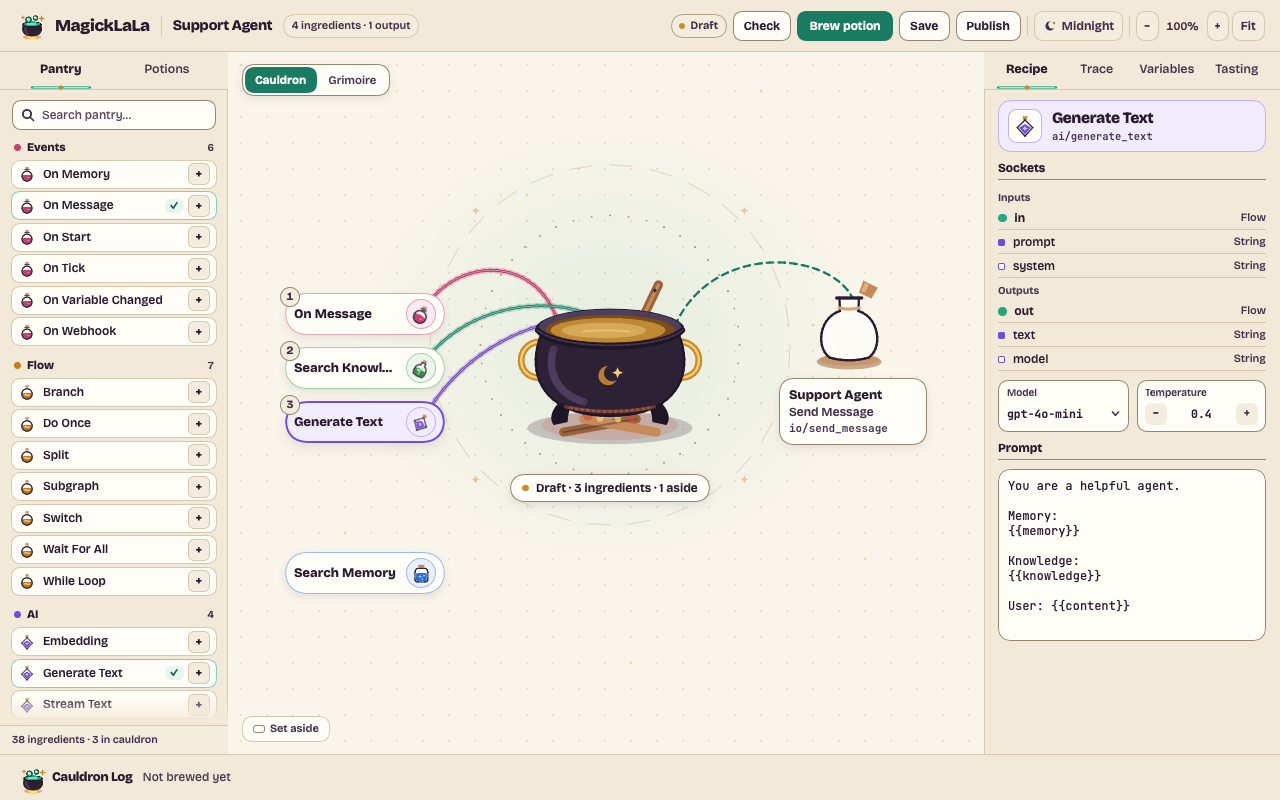
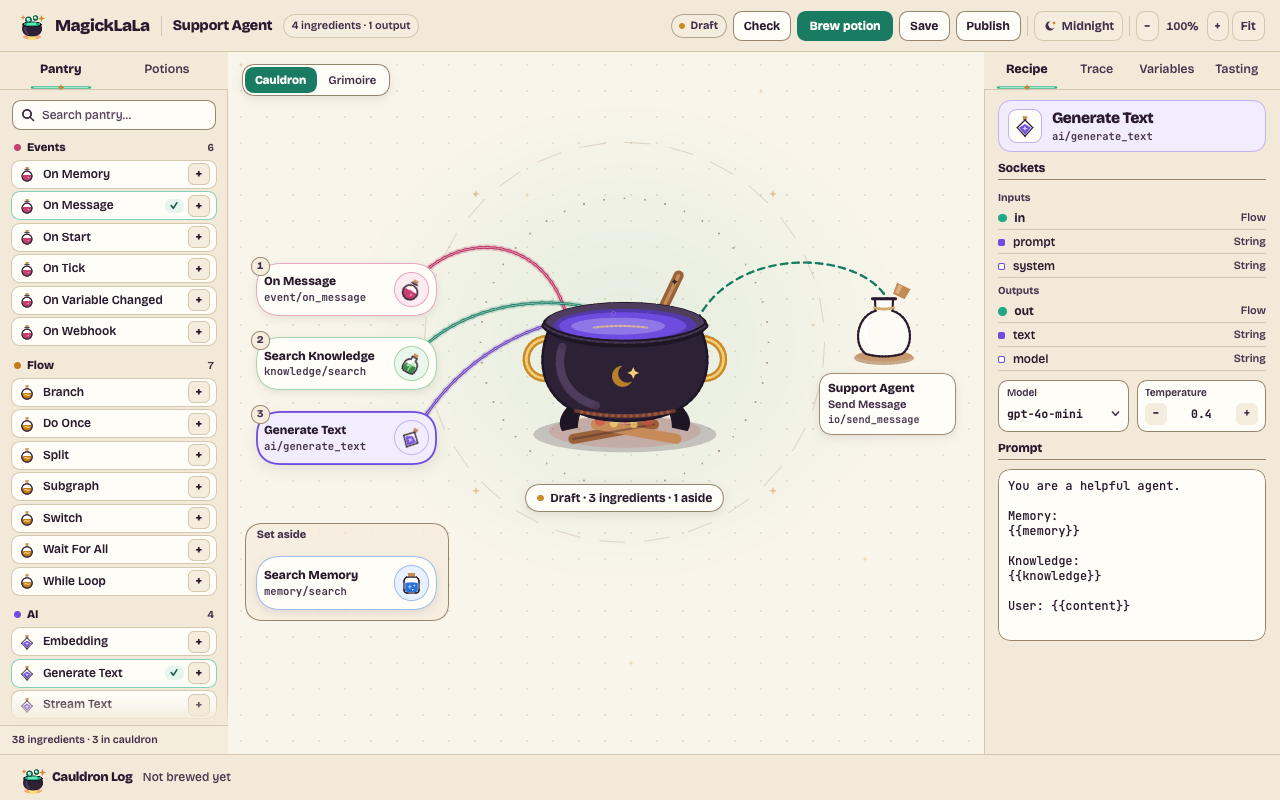
fix(canvas): set-aside shelf carries its own label so the legend no longer repeats it; screenshots regenerated

diff --git a/crates/magicklala-canvas/src/cauldron.rs b/crates/magicklala-canvas/src/cauldron.rs
@@ -330,11 +330,10 @@ fn plaque(state: &CanvasState, mood: CauldronMood, plan: &BrewPlan, p: &HearthPa
     )
 }
 
-fn legend(state: &CanvasState, mood: CauldronMood, plan: &BrewPlan, size: (f32, f32), p: &HearthPalette) -> Option<El> {
+fn legend(state: &CanvasState, mood: CauldronMood, size: (f32, f32), p: &HearthPalette) -> Option<El> {
     let untaken = state.has_run() && state.nodes.iter().any(|card| card.status == ExecutionStatus::Idle);
     let hexed = mood == CauldronMood::Hexed;
-    let aside = plan.with_role(BrewRole::Aside).next().is_some();
-    if !untaken && !hexed && !aside {
+    if !untaken && !hexed {
         return None;
     }
     let dash = |color: Color| row().gap(3.0).items_center().child(el().w(6.0).h(2.0).fill(color)).child(el().w(6.0).h(2.0).fill(color));
@@ -355,15 +354,6 @@ fn legend(state: &CanvasState, mood: CauldronMood, plan: &BrewPlan, size: (f32, 
             .child(row().gap(5.0).items_center().child(dash(p.mute)).child(text("Blocked").font(TextStyle::new(11.0, 600.0)).color(p.ink_2)));
     } else if untaken {
         keyed = keyed.child(row().gap(5.0).items_center().child(dash(p.mute)).child(text("Untaken").font(TextStyle::new(11.0, 600.0)).color(p.ink_2)));
-    }
-    if aside {
-        keyed = keyed.child(
-            row()
-                .gap(5.0)
-                .items_center()
-                .child(el().size(12.0, 8.0).radius(3.0).border(1.2, p.rule_2))
-                .child(text("Set aside").font(TextStyle::new(11.0, 600.0)).color(p.ink_2)),
-        );
     }
     Some(keyed)
 }
@@ -557,7 +547,7 @@ pub fn cauldron_workbench_view<S: 'static>(state: &CanvasState, size: (f32, f32)
         );
     }
     board = board.child(mode_switcher(state, &p, lens, size));
-    if let Some(keyed) = legend(state, mood, &plan, size, &p) {
+    if let Some(keyed) = legend(state, mood, size, &p) {
         board = board.child(keyed);
     }
     board
